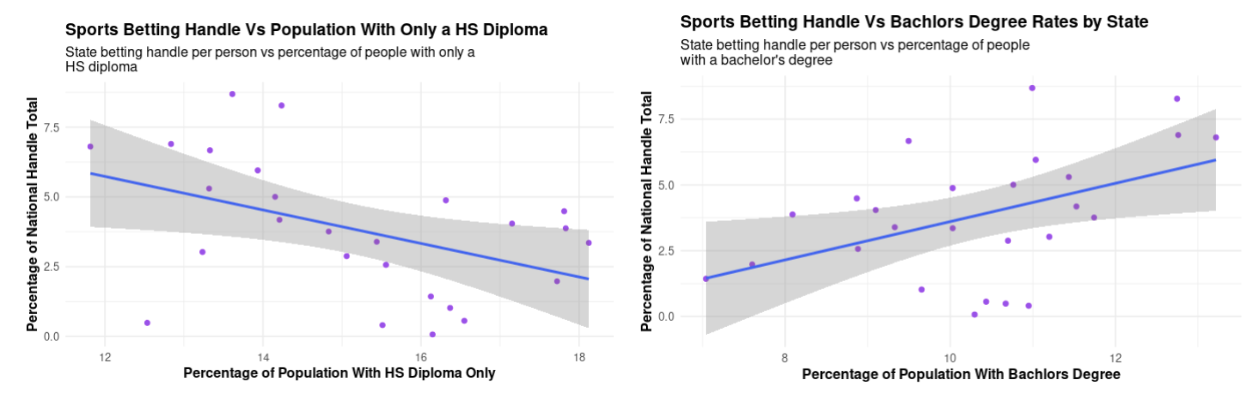
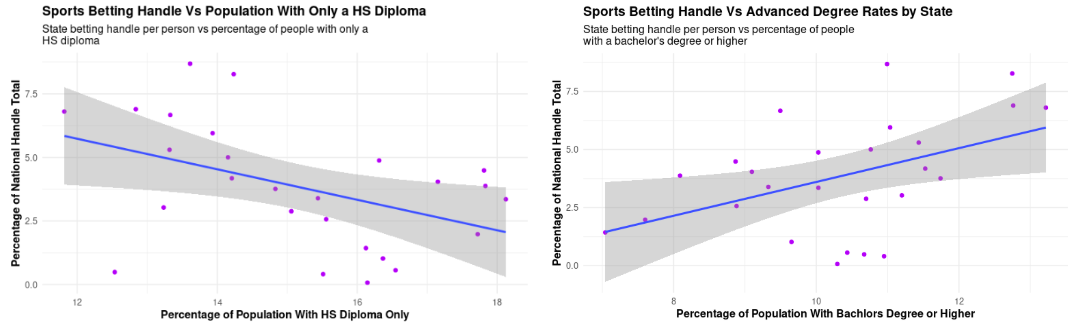
Built site for gh-pages

diff --git a/index.html b/index.html
@@ -281,6 +281,9 @@ div.csl-indent {
   <li><a href="#statistical-thinking" id="toc-statistical-thinking" class="nav-link" data-scroll-target="#statistical-thinking">Statistical Thinking</a></li>
   <li><a href="#machine-learning" id="toc-machine-learning" class="nav-link" data-scroll-target="#machine-learning">Machine Learning</a></li>
   <li><a href="#data-visualization" id="toc-data-visualization" class="nav-link" data-scroll-target="#data-visualization">Data Visualization</a></li>
+  <li><a href="#because-our-study-investigates-structural-socioeconomic-predictors-of-sports-betting-participation-across-u.s.-states-visualization-allowed-us-to-explore-spatial-and-demographic-variation-that-would-be-obscured-in-a-purely-tabular-or-statistical-summary.-this-was-specifically-helpful-for-our-research-question-because-of-the-twenty-six-states-that-were-relevant-to-our-analysis.-to-evaluate-education-we-employed-three-types-of-visual-techniques-grouped-bar-charts-choropleth-maps-and-bivariate-scatterplots-with-linear-models." id="toc-because-our-study-investigates-structural-socioeconomic-predictors-of-sports-betting-participation-across-u.s.-states-visualization-allowed-us-to-explore-spatial-and-demographic-variation-that-would-be-obscured-in-a-purely-tabular-or-statistical-summary.-this-was-specifically-helpful-for-our-research-question-because-of-the-twenty-six-states-that-were-relevant-to-our-analysis.-to-evaluate-education-we-employed-three-types-of-visual-techniques-grouped-bar-charts-choropleth-maps-and-bivariate-scatterplots-with-linear-models." class="nav-link" data-scroll-target="#because-our-study-investigates-structural-socioeconomic-predictors-of-sports-betting-participation-across-u.s.-states-visualization-allowed-us-to-explore-spatial-and-demographic-variation-that-would-be-obscured-in-a-purely-tabular-or-statistical-summary.-this-was-specifically-helpful-for-our-research-question-because-of-the-twenty-six-states-that-were-relevant-to-our-analysis.-to-evaluate-education-we-employed-three-types-of-visual-techniques-grouped-bar-charts-choropleth-maps-and-bivariate-scatterplots-with-linear-models.">Because our study investigates structural socioeconomic predictors of sports betting participation across U.S. states, visualization allowed us to explore spatial and demographic variation that would be obscured in a purely tabular or statistical summary. This was specifically helpful for our research question because of the twenty-six states that were relevant to our analysis. To evaluate education, we employed three types of visual techniques: grouped bar charts, choropleth maps, and bivariate scatterplots with linear models.</a></li>
+  <li><a href="#including-education-categories-side-by-side-reveals-internal-contrasts.-and-if-you-point-your-attention-to-the-bachelors-degree-and-graduate-degree-groups-and-compare-them-to-handle-contribution-on-the-right-most-side-you-can-see-the-progression-of-increase-and-decrease-between-the-regions-follows-the-same-progression.-this-is-different-from-the-no-high-school-diploma-and-high-school-diploma-columns-where-there-are-no-clear-similarities-to-the-handle-contribution.-this-expands-on-the-trends-that-we-have-been-seeing-pointing-to-that-higher-education-correlates-with-higher-sports-betting-handle-state-wide." id="toc-including-education-categories-side-by-side-reveals-internal-contrasts.-and-if-you-point-your-attention-to-the-bachelors-degree-and-graduate-degree-groups-and-compare-them-to-handle-contribution-on-the-right-most-side-you-can-see-the-progression-of-increase-and-decrease-between-the-regions-follows-the-same-progression.-this-is-different-from-the-no-high-school-diploma-and-high-school-diploma-columns-where-there-are-no-clear-similarities-to-the-handle-contribution.-this-expands-on-the-trends-that-we-have-been-seeing-pointing-to-that-higher-education-correlates-with-higher-sports-betting-handle-state-wide." class="nav-link" data-scroll-target="#including-education-categories-side-by-side-reveals-internal-contrasts.-and-if-you-point-your-attention-to-the-bachelors-degree-and-graduate-degree-groups-and-compare-them-to-handle-contribution-on-the-right-most-side-you-can-see-the-progression-of-increase-and-decrease-between-the-regions-follows-the-same-progression.-this-is-different-from-the-no-high-school-diploma-and-high-school-diploma-columns-where-there-are-no-clear-similarities-to-the-handle-contribution.-this-expands-on-the-trends-that-we-have-been-seeing-pointing-to-that-higher-education-correlates-with-higher-sports-betting-handle-state-wide.">Including education categories side-by-side reveals internal contrasts. And if you point your attention to the bachelors degree and graduate degree groups and compare them to handle contribution, (on the right most side) you can see the progression of increase and decrease between the regions follows the same progression. This is different from the No High School Diploma and High School Diploma columns where there are no clear similarities to the handle contribution. This expands on the trends that we have been seeing; pointing to that higher education correlates with higher sports betting handle state-wide.</a></li>
+  <li><a href="#a-noticeable-feature-of-this-graphic-is-that-the-northeastern-region-stands-out-on-both-maps-high-in-handle-per-person-and-in-advanced-degree-rates.-a-second-area-i-would-like-to-point-your-attention-to-is-the-midwest-and-parts-of-the-south-where-the-progression-of-education-rates-and-betting-handle-coincide.-while-not-every-state-or-region-have-perfect-alignment-there-are-notable-similarities-between-the-two-maps." id="toc-a-noticeable-feature-of-this-graphic-is-that-the-northeastern-region-stands-out-on-both-maps-high-in-handle-per-person-and-in-advanced-degree-rates.-a-second-area-i-would-like-to-point-your-attention-to-is-the-midwest-and-parts-of-the-south-where-the-progression-of-education-rates-and-betting-handle-coincide.-while-not-every-state-or-region-have-perfect-alignment-there-are-notable-similarities-between-the-two-maps." class="nav-link" data-scroll-target="#a-noticeable-feature-of-this-graphic-is-that-the-northeastern-region-stands-out-on-both-maps-high-in-handle-per-person-and-in-advanced-degree-rates.-a-second-area-i-would-like-to-point-your-attention-to-is-the-midwest-and-parts-of-the-south-where-the-progression-of-education-rates-and-betting-handle-coincide.-while-not-every-state-or-region-have-perfect-alignment-there-are-notable-similarities-between-the-two-maps.">A noticeable feature of this graphic is that the Northeastern region stands out on both maps, high in handle per person and in advanced degree rates. A second area I would like to point your attention to is the midwest and parts of the south, where the progression of education rates and betting handle coincide. While not every state or region have perfect alignment, there are notable similarities between the two maps.</a></li>
   <li><a href="#data-ethics" id="toc-data-ethics" class="nav-link" data-scroll-target="#data-ethics">Data Ethics</a></li>
   </ul></li>
   <li><a href="#conclusions" id="toc-conclusions" class="nav-link" data-scroll-target="#conclusions">Conclusions</a></li>
@@ -304,7 +307,7 @@ div.csl-indent {
 
 <section id="introduction" class="level1">
 <h1>Introduction</h1>
-<p>Rapid legalization of gambling across the United States and the rise of app-based and online betting platforms, has propelled sports betting into a multi-billion-dollar industry. This transformation has introduced new forms of entertainment, economic opportunity, and athlete benefits, but it has also sparked critical questions about who participates in this growing industry and why. Specifically, are patterns of sports betting participation evenly distributed across demographic groups? And if not, which characteristics, such as education or income level, are most closely associated with higher betting activity?</p>
+<p>Rapid legalization of gambling across the United States and the rise of app-based and online betting platforms has propelled sports betting into a multi-billion-dollar industry. This transformation has introduced new forms of entertainment, economic opportunity, and media attention for athletes, but it has also sparked critical questions about who participates in this growing industry and why. Specifically, how are patterns of sports betting participation distributed across socioeconomic groups? The new age of sports betting has introduced additional gambling risks. Because of these reasons, we seek to answer: How do the socioeconomic factors: education and income, correlate with sports betting handle at the state level?</p>
 <p>Our hypothesis is that groups of lower socioeconomic status, with particular regards to income and education, would see higher rates of sports betting participation. Historically, gambling in general has been associated with lower-income and less-educated households. However, with sports betting being such a new venture in the gambling world, it is not widely associated with these socioeconomic trends yet. However, if these groups are in fact participating at a higher rate than others of higher socioeconomic standing, it raises concerns. For many individuals, gambling may reflect not recreational entertainment, but economic desperation, misinformed optimism, or a perceived path to financial mobility. In such contexts, the consequences of betting can deepen cycles of financial instability. At the same time, education levels may influence individuals’ understanding of risk, probability, and long-term outcomes, potentially creating an equity gap in financial decision-making and loss aversion.</p>
 </section>
 <section id="background" class="level1">
@@ -396,33 +399,47 @@ Figure 3: Correlation analysis exploring linear relationships between income and
 </section>
 <section id="data-visualization" class="level2">
 <h2 class="anchored" data-anchor-id="data-visualization">Data Visualization</h2>
-<p>Because our study investigates structural socioeconomic predictors of sports betting participation across U.S. states, visualization allowed us to explore spatial and demographic variation that would be obscured in a purely tabular or statistical summary. Each graphic was chosen and designed to make abstract trends in the data tangible. This was specifically helpful for our research question because of the twenty-six states that were relevant to our analysis. To evaluate education, we employed three types of visual techniques: grouped bar charts, choropleth maps, and bivariate scatterplots with linear models.</p>
+</section>
+<section id="because-our-study-investigates-structural-socioeconomic-predictors-of-sports-betting-participation-across-u.s.-states-visualization-allowed-us-to-explore-spatial-and-demographic-variation-that-would-be-obscured-in-a-purely-tabular-or-statistical-summary.-this-was-specifically-helpful-for-our-research-question-because-of-the-twenty-six-states-that-were-relevant-to-our-analysis.-to-evaluate-education-we-employed-three-types-of-visual-techniques-grouped-bar-charts-choropleth-maps-and-bivariate-scatterplots-with-linear-models." class="level2">
+<h2 class="anchored" data-anchor-id="because-our-study-investigates-structural-socioeconomic-predictors-of-sports-betting-participation-across-u.s.-states-visualization-allowed-us-to-explore-spatial-and-demographic-variation-that-would-be-obscured-in-a-purely-tabular-or-statistical-summary.-this-was-specifically-helpful-for-our-research-question-because-of-the-twenty-six-states-that-were-relevant-to-our-analysis.-to-evaluate-education-we-employed-three-types-of-visual-techniques-grouped-bar-charts-choropleth-maps-and-bivariate-scatterplots-with-linear-models.">Because our study investigates structural socioeconomic predictors of sports betting participation across U.S. states, visualization allowed us to explore spatial and demographic variation that would be obscured in a purely tabular or statistical summary. This was specifically helpful for our research question because of the twenty-six states that were relevant to our analysis. To evaluate education, we employed three types of visual techniques: grouped bar charts, choropleth maps, and bivariate scatterplots with linear models.</h2>
+<p>This grouped bar chart was created to compare regional averages of sports betting contribution and educational attainment per state. Regional grouping (Midwest, Northeast, South, and West) helped reduce state-level noise and highlight trends across large geographies.</p>
 <figure id="fig-mean_hand" class="figure">
 <img src="figures/figure3a.png" alt="mean_hand" width="800" class="figure-img">
 <figcaption style="font-size: 8px; color: #555;">
 Figure 5: Mean percentage of sports betting handle contributed by each region compared to their educational attainment rates.
 </figcaption>
 </figure>
-<p>This grouped bar chart was created to compare regional averages of sports betting contribution and educational attainment. Using regional grouping (Midwest, Northeast, South, and West) helped reduce state-level noise and highlight macro trends across large geographies. The decision to normalize state betting volume by national handle (rather than just raw values) allows for meaningful cross-region comparison despite population differences, as mentioned earlier.</p>
-<p>Including education categories side-by-side reveals internal contrasts: for example, the South has the highest proportion of residents with only a high school diploma (<strong>16.4%</strong>) but a lower mean contribution to national sports betting handle (<strong>3.3%</strong>). Conversely, the West and Northeast show higher bachelor’s and graduate degree rates, and they also contribute disproportionately more to national handle. These visuals suggest that higher educational attainment may correlate with greater sports betting participation, a surprising and strong reversal of our original hypothesis.</p>
+</section>
+<section id="including-education-categories-side-by-side-reveals-internal-contrasts.-and-if-you-point-your-attention-to-the-bachelors-degree-and-graduate-degree-groups-and-compare-them-to-handle-contribution-on-the-right-most-side-you-can-see-the-progression-of-increase-and-decrease-between-the-regions-follows-the-same-progression.-this-is-different-from-the-no-high-school-diploma-and-high-school-diploma-columns-where-there-are-no-clear-similarities-to-the-handle-contribution.-this-expands-on-the-trends-that-we-have-been-seeing-pointing-to-that-higher-education-correlates-with-higher-sports-betting-handle-state-wide." class="level2">
+<h2 class="anchored" data-anchor-id="including-education-categories-side-by-side-reveals-internal-contrasts.-and-if-you-point-your-attention-to-the-bachelors-degree-and-graduate-degree-groups-and-compare-them-to-handle-contribution-on-the-right-most-side-you-can-see-the-progression-of-increase-and-decrease-between-the-regions-follows-the-same-progression.-this-is-different-from-the-no-high-school-diploma-and-high-school-diploma-columns-where-there-are-no-clear-similarities-to-the-handle-contribution.-this-expands-on-the-trends-that-we-have-been-seeing-pointing-to-that-higher-education-correlates-with-higher-sports-betting-handle-state-wide.">Including education categories side-by-side reveals internal contrasts. And if you point your attention to the bachelors degree and graduate degree groups and compare them to handle contribution, (on the right most side) you can see the progression of increase and decrease between the regions follows the same progression. This is different from the No High School Diploma and High School Diploma columns where there are no clear similarities to the handle contribution. This expands on the trends that we have been seeing; pointing to that higher education correlates with higher sports betting handle state-wide.</h2>
+<p>To better understand geographic variance, we used choropleth maps to visualize state-level differences in both betting behavior and education attainment. Comparing the handle per capita map (left) with a visualization of advanced degree prevalence (right) allowed us to visually test whether educational attainment is geographically co-located with higher levels of betting activity. We particularly chose to visualize the attainment of a bachelor’s degree or higher based on the results from the models and the previous graphic.</p>
 <figure id="fig-combo1" class="figure">
 <img src="figures/figure3b.png" alt="combo1" width="800" class="figure-img">
 <figcaption style="font-size: 8px; color: #555;">
 Figure 6: Left: State-level sports betting handle per person. Right: Percent of population with at least a bachelor’s degree.
 </figcaption>
 </figure>
-<p>To better understand geographic variance, we used choropleth maps to visualize state-level differences in both betting behavior and education attainment. Mapping handle per capita better reflects how intensely betting is occurring per resident rather than simply the sheer total. Pairing this map with a visualization of bachelor’s degree prevalence allowed us to visually test whether educational attainment is geographically co-located with higher levels of betting activity. We particularly chose to visualize bachelor’s degrees based on the results from the linear model, which weight bachelor’s degrees as having the highest impact on sports betting handle.</p>
-<p>A noticeable feature of this graphic is that Northeastern states like New Jersey and New York stand out on both maps, high in handle per person and in bachelor’s degree rates, further supporting the idea that betting volume is not purely driven by economic desperation or low education levels. This falls in line with previous analysis from our region visualization showing higher betting contributions and education in the northeast.</p>
+</section>
+<section id="a-noticeable-feature-of-this-graphic-is-that-the-northeastern-region-stands-out-on-both-maps-high-in-handle-per-person-and-in-advanced-degree-rates.-a-second-area-i-would-like-to-point-your-attention-to-is-the-midwest-and-parts-of-the-south-where-the-progression-of-education-rates-and-betting-handle-coincide.-while-not-every-state-or-region-have-perfect-alignment-there-are-notable-similarities-between-the-two-maps." class="level2">
+<h2 class="anchored" data-anchor-id="a-noticeable-feature-of-this-graphic-is-that-the-northeastern-region-stands-out-on-both-maps-high-in-handle-per-person-and-in-advanced-degree-rates.-a-second-area-i-would-like-to-point-your-attention-to-is-the-midwest-and-parts-of-the-south-where-the-progression-of-education-rates-and-betting-handle-coincide.-while-not-every-state-or-region-have-perfect-alignment-there-are-notable-similarities-between-the-two-maps.">A noticeable feature of this graphic is that the Northeastern region stands out on both maps, high in handle per person and in advanced degree rates. A second area I would like to point your attention to is the midwest and parts of the south, where the progression of education rates and betting handle coincide. While not every state or region have perfect alignment, there are notable similarities between the two maps.</h2>
+<p>At this point in our education analysis we were seeing strong trends of advanced education correlating with higher handle. So we created two scatterplots with trend lines as a final visual to evaluate this trend.</p>
 <figure id="fig-combo2" class="figure">
 <img src="figures/figure3c.png" alt="combo2" width="800" class="figure-img">
 <figcaption style="font-size: 8px; color: #555;">
-Figure 7: Left: Betting handle vs.&nbsp;high school diploma rates. Right: Betting handle vs.&nbsp;bachelor’s degree rates.
+Figure 7: Left: Betting handle vs.&nbsp;high school diploma rates. Right: Betting handle vs.&nbsp;advanced degree rates.
 </figcaption>
 </figure>
-<p>To quantify the relationships suggested by our bar chart and map visualizations, we used scatterplots with fitted linear regression lines. This approach is effective for testing the direction and form of a relationship between two continuous variables; here, educational attainment percentage and percentage of national handle per state.</p>
-<p>On the left, we see a negative correlation between the percentage of adults with only a high school diploma and their state’s betting contribution by residents. This challenges typical gambling trends that lower educational attainment drives betting behavior.</p>
-<p>On the right, we observe a positive relationship between bachelor’s degree attainment and national handle share.</p>
-<p>Ultimately, these visualizations further helped to debunk our hypothesis, instead, states with higher proportions of college-educated adults appear to participate more in sports betting, not less– a finding that would be difficult to identify through tables or regression coefficients alone.</p>
+<p>On the left, we see a negative correlation between the percentage of adults with only a high school diploma and their contribution to national handle. On the right, when looking at advanced degree attainment, we observe a positive relationship. While both graphics do have some divergence, there are clear trend lines perpetuating the positive and negative correlations.</p>
+<table class="caption-top table">
+<colgroup>
+<col style="width: 5%">
+</colgroup>
+<tbody>
+<tr class="odd">
+<td>Ultimately, these visualizations further debunked our hypothesis, instead, states with higher proportions of individuals with bachelors and graduate degrees appear to accumulate more sports betting handle.</td>
+</tr>
+</tbody>
+</table>
 <p>We did a similar approach to explore the relationship between income and sports betting participation across U.S. states. These visual tools helped us examine how both average and low-income populations relate to betting behavior, using a combination of scatterplots and choropleth maps. By incorporating both normalized and disaggregated income measures, we were able to contextualize betting activity within broader socioeconomic landscapes and challenge simplistic assumptions about gambling participation.</p>
 <p>To visualize geographic variation in income and betting simultaneously, we employed the use of choropleth maps. The map in Figure 9 displays normalized betting <code>handle_per_household</code>, in relation to percentage of low-income household within each state.</p>
 <p>This choropleth map reveals distinct geographical patterns in the relationship between income and betting behavior that are not evident from scatterplots alone. The map highlights two primary regions with a high sports betting handle per household. First, a cluster in the Northeast is characterized by higher-income households and a high handle. Second, a corridor from the West through the Central U.S. shows similar high-volume betting markets, suggesting that this behavior is not confined to a single demographic profile. A particularly notable finding is the cluster of states in the South where a higher percentage of low-income households corresponds with a high handle per household.</p>
@@ -449,9 +466,12 @@ Figure 10: Scatterplot showing the relationship between a state’s average spor
 <section id="data-ethics" class="level2">
 <h2 class="anchored" data-anchor-id="data-ethics">Data Ethics</h2>
 <p>We used publicly available datasets from the U.S. Census and state-reported sports betting metrics. This approach minimized privacy risks, as no personally identifiable information (PII) was collected or processed at any stage of the analysis. Nevertheless, working with demographic and behavioral indicators, such as income, education, and gambling activity, still required caution. Even when data is de-identified, aggregation can lead to the reinforcement of stereotypes or the masking of structural inequities. To mitigate this risk, we chose to analyze only state-level trends, avoiding county- or zip-code-level disaggregation that could disproportionately spotlight or stigmatize smaller or more vulnerable populations; and we encourage future research into this sector to evaluate aggregated data as a precaution as well.</p>
-<p>We were careful not to frame our findings in terms of moral judgment or individual responsibility, instead focusing on structural correlations and the potential for policy-level interventions. If future analysis were to consist of individual-level analysis, findings from that study could open the door to manipulative use of people’s data. For example, if a sports-betting company can predict an individual’s behavior associated with gambling, they can direct specialized ads and notifications to maximize handle from that user. This could lead to financial disturbance in that person’s life, especially if they already struggle with gambling habits.</p>
-<p>Another ethical concern lies in bias baked into the original data sources. U.S. Census data, while comprehensive, has known limitations in how it categorizes income and education. It may undercount certain populations (especially undocumented individuals, rural residents, and Indigenous communities), which can skew representational accuracy. Sports betting data, on the other hand, only includes legal, reported activity, ignoring illegal or unregulated markets where participation may also be significant, particularly in states that have not legalized betting. This creates an incomplete picture of the true landscape and potentially biases our conclusions toward the behavior of more affluent, digitally connected populations who are more likely to use app-based platforms. Our analysis consisted of only 26 states, barely more than half of US states. While we prefaced this in our writing, if it were not properly disclosed it could lead to over-generalized assumptions about U.S. sports betting trends.</p>
-<p>Lastly, we would like to recognize how our results could be interpreted, or misinterpreted, in public discourse. Gambling is a socially and politically charged topic, often laden with stigma. Suggesting that certain populations are more likely to gamble can quickly spiral into harmful narratives about irresponsibility or moral failing. Our aim was not to pathologize individuals, but to investigate structural patterns that may reflect underlying disparities in access, education, or economic opportunity. To that end, our findings are not meant to be deterministic conclusions, but rather context for further research and general awareness.</p>
+<p>We were careful not to frame our findings in terms of moral judgment or individual responsibility, instead focusing on structural correlations that imply there are populations who might be vulnerable to misuse. If future analysis were to consist of individual-level analysis, findings from that study could open the door to manipulative use of people’s data. For example, if a sports-betting company can predict an individual’s behavior associated with gambling, they can direct specialized ads and notifications to maximize handle from that user. This could lead to financial disturbance in that person’s life, especially if they already struggle with gambling habits.</p>
+<p>However, with that recommendation in mind, it is worth noting the potential benefits of individual-level data. If sports betting apps could create a dashboard that presents a user’s habits to the average across the app, it could help the user recognize if their behavior is entering dangerous territory. While this would clearly help sports betting apps maintain a user friendly environment, we would urge nation-wide policy to guide use of this data; limiting the use cases of this data for strictly behavioral health, and prohibiting companies to use it for any form of marketing or targeted promotions for users.</p>
+<p>Another ethical concern lies in bias baked into the original data sources. U.S. Census data, while comprehensive, could have limitations in how it categorizes income and education. It may undercount certain populations (especially undocumented individuals, rural residents, and Indigenous communities), which can skew representational accuracy.</p>
+<p>Sports betting data, on the other hand, only includes legal, reported activity, ignoring illegal or unregulated markets where participation may also be significant, particularly in states that have not legalized betting. This creates an incomplete picture of the true landscape and potentially biases our conclusions toward the behavior of more affluent, digitally connected populations who are more likely to use app-based platforms.</p>
+<p>Our analysis consisted of only 26 states, barely more than half of US states. While we prefaced this in our writing, if it were not properly disclosed it could lead to over-generalized assumptions about U.S. sports betting trends.</p>
+<p>Lastly, we would like to recognize how our results could be interpreted, or misinterpreted, in public discourse. Gambling is a socially and politically charged topic, often laden with stigma. Suggesting that certain populations are more likely to gamble can quickly spiral into harmful narratives about irresponsibility or moral failing. Our aim was not to pathologize individuals, but to investigate structural patterns that may reflect underlying disparities in access, education, or economic opportunity. To that end, our findings are not meant to be deterministic conclusions, but rather context for further research, general awareness, or future policies to protect users.</p>
 </section>
 </section>
 <section id="conclusions" class="level1">
